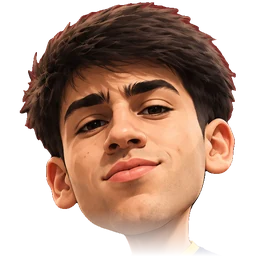
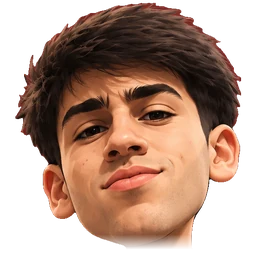
Más personajes especiales y nombre del admin
- 4 personajes nuevos (caras recortadas detectando el cuello, también para los anteriores)
- El admin puede poner su nombre: aparece como el profe en el lobby, en los celus y entregando la copa
- Penales: los partidos simultáneos se acomodan en columnas para entrar en la pantalla

Claude-Session: https://claude.ai/code/session_018S1bEn58fuDNFqjuGxF6T7

diff --git a/src/client/games/Penales.tsx b/src/client/games/Penales.tsx
@@ -259,7 +259,7 @@ function DemoLoop({ width }: { width: number }) {
 // ---------- Pantalla grande ----------
 
 /** Un partido en la pantalla grande. El ganador se revela cuando termina la animación. */
-function MatchCard({ m, players }: { m: MatchView; players: Record<string, PublicPlayer> }) {
+function MatchCard({ m, players, sceneWidth }: { m: MatchView; players: Record<string, PublicPlayer>; sceneWidth: number }) {
   const n = m.tandas.length;
   const [seen, setSeen] = useState(0); // tandas cuya animación ya terminó
   const last = m.tandas[n - 1];
@@ -279,16 +279,16 @@ function MatchCard({ m, players }: { m: MatchView; players: Record<string, Publi
               {players[pid] && (
                 <Avatar
                   avatar={winner ? { ...players[pid].avatar, expression: winner === pid ? 'happy' : 'sad' } : players[pid].avatar}
-                  size={50}
+                  size={sceneWidth < 380 ? 40 : 50}
                   offline={!players[pid].connected}
                 />
               )}
             </span>
-            <span style={{ fontSize: 24, fontWeight: 700 }}>{players[pid]?.name}</span>
+            <span style={{ fontSize: sceneWidth < 300 ? 18 : 22, fontWeight: 700, whiteSpace: 'nowrap' }}>{sceneWidth < 380 ? players[pid]?.name.split(' ')[0] : players[pid]?.name}</span>
           </div>
         ))}
       </div>
-      {last && <TandaReplay key={n} t={last} a={m.a} b={m.b} players={players} width={360} onDone={() => setSeen(n)} />}
+      {last && <TandaReplay key={n} t={last} a={m.a} b={m.b} players={players} width={sceneWidth} onDone={() => setSeen(n)} />}
       <div className="row between" style={{ fontSize: 19, minHeight: 50 }}>
         {winner ? (
           <span className="yellow" style={{ fontWeight: 700 }}>
@@ -349,9 +349,9 @@ export function PenalesHost({ game, players, send }: HostProps<HostView>) {
               </h2>
               {g.bye && <span className="muted big">Descansa: {players[g.bye]?.name}</span>}
             </div>
-            <div style={{ display: 'grid', gridTemplateColumns: 'repeat(auto-fill, minmax(400px, 1fr))', gap: 18 }}>
+            <div style={{ display: 'grid', gridTemplateColumns: `repeat(auto-fill, minmax(${g.matches.length > 2 ? 230 : 340}px, 1fr))`, gap: 14 }}>
               {g.matches.map((m) => (
-                <MatchCard key={m.id} m={m} players={players} />
+                <MatchCard key={m.id} m={m} players={players} sceneWidth={g.matches.length > 2 ? 210 : g.matches.length === 2 ? 310 : 380} />
               ))}
             </div>
           </>

diff --git a/src/client/pages/Create.tsx b/src/client/pages/Create.tsx
@@ -1,6 +1,7 @@
 import { useState } from 'react';
 import { navigate } from '../main';
-import { ChalkCircle, Ledge, Underline } from '../components/chalk';
+import { Avatar, ChalkCircle, Ledge, Underline } from '../components/chalk';
+import { specialForName } from '../../shared/specials';
 import { DEFAULT_ROUNDS, GAME_INFO, type CreateRoomRequest, type GameType } from '../../shared/types';
 
 const ALL: GameType[] = ['chess', 'reves', 'geo', 'penales', 'palabra'];
@@ -18,6 +19,7 @@ export const pendingPin = {
 export function Create() {
   const [name, setName] = useState('');
   const [pin, setPin] = useState('');
+  const [adminName, setAdminName] = useState('');
   const [games, setGames] = useState<{ type: GameType; on: boolean; rounds: number }[]>(
     ALL.map((type) => ({ type, on: true, rounds: DEFAULT_ROUNDS[type] }))
   );
@@ -44,6 +46,7 @@ export function Create() {
     const body: CreateRoomRequest = {
       name: name.trim(),
       pin,
+      adminName: adminName.trim() || undefined,
       games: chosen.map(({ type, rounds }) => ({ type, rounds })),
       customWords: words.split(/[\n,]/).map((w) => w.trim()).filter(Boolean),
       customFamous: famous.split(/\n/).map((w) => w.trim()).filter(Boolean)
@@ -84,6 +87,19 @@ export function Create() {
           <div className="field">
             <label htmlFor="ev">Nombre del evento o del grupo</label>
             <input id="ev" className="chalk-input" value={name} maxLength={40} placeholder="Los pibes del barrio" onChange={(e) => setName(e.target.value)} />
+          </div>
+
+          <div className="row wrap" style={{ alignItems: 'flex-end', gap: 20 }}>
+            <div className="field grow" style={{ minWidth: 240 }}>
+              <label htmlFor="admin">Tu nombre (el profe que conduce, opcional)</label>
+              <input id="admin" className="chalk-input" value={adminName} maxLength={24} placeholder="Prof. …" onChange={(e) => setAdminName(e.target.value)} />
+            </div>
+            {specialForName(adminName) && (
+              <div className="row" style={{ gap: 10 }}>
+                <Avatar avatar={{ seed: 'x', hue: 0, expression: 'happy', special: specialForName(adminName) }} size={56} />
+                <span className="yellow" style={{ fontWeight: 700 }}>¡Personaje especial!</span>
+              </div>
+            )}
           </div>
 
           <div className="field" style={{ maxWidth: 280 }}>

diff --git a/src/worker/room.ts b/src/worker/room.ts
@@ -32,6 +32,7 @@ interface StoredPlayer extends Omit<PublicPlayer, 'connected'> {
 interface RoomData {
   code: string;
   name: string;
+  admin?: { name: string; avatar: Avatar } | null;
   pinHash: string;
   adminToken: string;
   createdAt: number;
@@ -71,6 +72,15 @@ function cleanAvatar(a: any, name: string): Avatar {
   const expression = String(a?.expression ?? 'happy') as Avatar['expression'];
   const special = specialForName(name);
   return special ? { seed, hue, expression, special } : { seed, hue, expression };
+}
+
+/** Avatar del admin: personaje especial si el nombre coincide, si no un blob fijo derivado del nombre. */
+function adminAvatar(name: string): Avatar {
+  let h = 0;
+  for (const ch of name) h = (h * 31 + ch.charCodeAt(0)) >>> 0;
+  const special = specialForName(name);
+  const base: Avatar = { seed: `profe-${name}`, hue: h % 360, expression: 'smug' };
+  return special ? { ...base, special } : base;
 }
 
 function cleanList(list: unknown, max: number, len: number): string[] {
@@ -135,9 +145,11 @@ export class Room extends DurableObject<Env> {
       .filter((g) => VALID_GAMES.includes(g?.type))
       .map((g) => ({ type: g.type, rounds: Math.max(1, Math.min(g.type === 'palabra' ? 60 : g.type === 'penales' ? 2 : 15, Math.round(Number(g.rounds) || 1))) }));
     if (!games.length) return new Response('Elegí al menos un juego', { status: 400 });
+    const adminName = String(body.adminName ?? '').trim().slice(0, 24);
     this.data = {
       code: body.code,
       name,
+      admin: adminName ? { name: adminName, avatar: adminAvatar(adminName) } : null,
       pinHash: await sha256(`${body.code}:${pin}`),
       adminToken: randomId(),
       createdAt: Date.now(),
@@ -187,6 +199,7 @@ export class Room extends DurableObject<Env> {
     return {
       code: d.code,
       name: d.name,
+      admin: d.admin ?? null,
       phase: d.phase,
       games: d.games,
       gameIndex: d.gameIndex,

diff --git a/src/client/pages/Host.tsx b/src/client/pages/Host.tsx
@@ -163,6 +163,20 @@ function JoinNote({ code }: { code: string }) {
   );
 }
 
+/** El profe que conduce: su personaje con un cartelito. */
+function AdminBadge({ room, size = 70, label = 'a cargo de la clase' }: { room: RoomView; size?: number; label?: string }) {
+  if (!room.admin) return null;
+  return (
+    <div className="row" style={{ gap: 14, alignItems: 'flex-end' }}>
+      <Avatar avatar={room.admin.avatar} size={size} body title={room.admin.name} />
+      <div className="paper" style={{ transform: 'rotate(-3deg)', padding: '10px 14px', marginBottom: 10 }}>
+        <div style={{ fontSize: 24, fontWeight: 700, lineHeight: 1 }}>Prof. {room.admin.name}</div>
+        <div style={{ fontSize: 16 }}>{label}</div>
+      </div>
+    </div>
+  );
+}
+
 function Lobby({ room, send }: { room: RoomView; send: Send }) {
   const next = room.games[0];
   return (
@@ -176,6 +190,9 @@ function Lobby({ room, send }: { room: RoomView; send: Send }) {
           <Underline width={300} />
         </div>
         <GamesList room={room} />
+        <div className="push">
+          <AdminBadge room={room} />
+        </div>
       </div>
       <div className="host-main">
         <div className="row between wrap" style={{ alignItems: 'flex-start', gap: 24 }}>
@@ -339,6 +356,9 @@ function Final({ room }: { room: RoomView }) {
             <b>{room.totals[p.id] ?? 0}</b>
           </div>
         ))}
+        <div className="push">
+          <AdminBadge room={room} size={80} label="entrega la copa" />
+        </div>
       </div>
     </div>
   );

diff --git a/tests/rules.test.ts b/tests/rules.test.ts
@@ -271,6 +271,10 @@ describe('personajes especiales', () => {
     expect(specialForName('  manuel   PERERA ')).toBe('manuel');
     expect(specialForName('Facundo Centurión')).toBe('facundo');
     expect(specialForName('facundo centurion')).toBe('facundo');
+    expect(specialForName('Nacho Lima')).toBe('nacho');
+    expect(specialForName('bruno garay')).toBe('bruno');
+    expect(specialForName('Maciel Galeano')).toBe('maciel');
+    expect(specialForName('Pablo Méndez')).toBe('pablo');
     expect(specialForName('Manuel')).toBeUndefined();
     expect(specialForName('Pablo')).toBeUndefined();
     // el script de npm run hash calcula lo mismo
@@ -283,5 +287,6 @@ describe('personajes especiales', () => {
     const src = fs.readFileSync(new URL('../src/shared/specials.ts', import.meta.url), 'utf8').toLowerCase();
     expect(src).not.toContain('perera');
     expect(src).not.toContain('centuri');
+    for (const word of ['lima', 'garay', 'galeano', 'mendez']) expect(src).not.toContain(word);
   });
 });

diff --git a/src/shared/specials.ts b/src/shared/specials.ts
@@ -32,7 +32,11 @@ export function nameHash(name: string): string {
 
 export const SPECIALS: SpecialCharacter[] = [
   { id: 'manuel', hash: '108b462ff03c91', face: '/personajes/manuel-cara.webp', body: '/personajes/manuel.webp' },
-  { id: 'facundo', hash: '1fd6f6b3d2017e', face: '/personajes/facundo-cara.webp', body: '/personajes/facundo.webp' }
+  { id: 'facundo', hash: '1fd6f6b3d2017e', face: '/personajes/facundo-cara.webp', body: '/personajes/facundo.webp' },
+  { id: 'nacho', hash: '161ea24afeaef3', face: '/personajes/nacho-cara.webp', body: '/personajes/nacho.webp' },
+  { id: 'bruno', hash: '1f31b9c4a66365', face: '/personajes/bruno-cara.webp', body: '/personajes/bruno.webp' },
+  { id: 'maciel', hash: '17c7b8652306b8', face: '/personajes/maciel-cara.webp', body: '/personajes/maciel.webp' },
+  { id: 'pablo', hash: '714c024d79560', face: '/personajes/pablo-cara.webp', body: '/personajes/pablo.webp' }
 ];
 
 export function specialForName(name: string): string | undefined {

diff --git a/src/shared/types.ts b/src/shared/types.ts
@@ -66,9 +66,15 @@ export interface GameResult {
 
 export type RoomPhase = 'lobby' | 'game' | 'results' | 'final';
 
+export interface AdminInfo {
+  name: string;
+  avatar: Avatar;
+}
+
 export interface RoomView {
   code: string;
   name: string;
+  admin: AdminInfo | null; // el profe / anfitrión (no juega, conduce)
   phase: RoomPhase;
   games: GameConfig[];
   gameIndex: number; // juego en curso, o el próximo a jugar
@@ -113,6 +119,7 @@ export type ClientMessage =
 export interface CreateRoomRequest {
   name: string;
   pin: string;
+  adminName?: string;
   games: GameConfig[];
   customWords?: string[];
   customFamous?: string[];

diff --git a/src/client/pages/Play.tsx b/src/client/pages/Play.tsx
@@ -140,6 +140,12 @@ function PlayerScreen({ msg, send, onEdit }: { msg: PlayerMessage; send: ReturnT
           <button className="chip" onClick={onEdit}>
             Cambiar mi personaje
           </button>
+          {room.admin && (
+            <div className="row" style={{ gap: 10, marginTop: 6 }}>
+              <Avatar avatar={room.admin.avatar} size={40} />
+              <span className="muted">Conduce: Prof. {room.admin.name}</span>
+            </div>
+          )}
         </div>
         <div className="stack push dashed-box" style={{ gap: 6 }}>
           <span className="yellow" style={{ fontWeight: 700 }}>

diff --git a/README.md b/README.md
@@ -19,7 +19,7 @@ Plataforma de multijuegos para juntadas, estilo "pizarrón de club". Sirve para 
 
 **Personajes:** se hacen con [Blobatar](https://blobatar.dev). Cada uno elige forma, color y expresión.
 
-**Personajes especiales:** si alguien se anota con un nombre clave, su avatar pasa a ser una caricatura propia: se ve en el lobby, en las tablas, en el mapa y haciendo los penales. Se configuran en `src/shared/specials.ts`, con las imágenes en `public/personajes/` (cuerpo entero con fondo transparente y la cara). Como el repo es público, los nombres no se guardan en texto: solo su huella, que se calcula con `npm run hash -- "Nombre Apellido"`.
+**Personajes especiales:** si alguien se anota con un nombre clave, su avatar pasa a ser una caricatura propia: se ve en el lobby, en las tablas, en el mapa y haciendo los penales. El admin también puede poner su nombre al crear el evento: aparece como el profe que conduce y entrega la copa. Si su nombre coincide con uno clave, también usa su caricatura. Se configuran en `src/shared/specials.ts`, con las imágenes en `public/personajes/` (cuerpo entero con fondo transparente y la cara). Como el repo es público, los nombres no se guardan en texto: solo su huella, que se calcula con `npm run hash -- "Nombre Apellido"`.
 
 Máximo 12 jugadores por sala.
 
